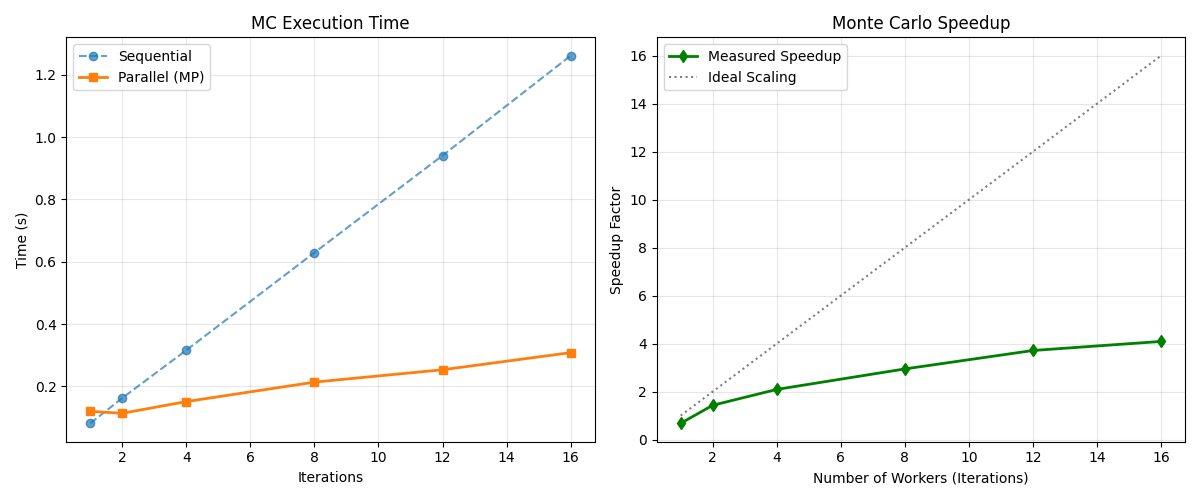
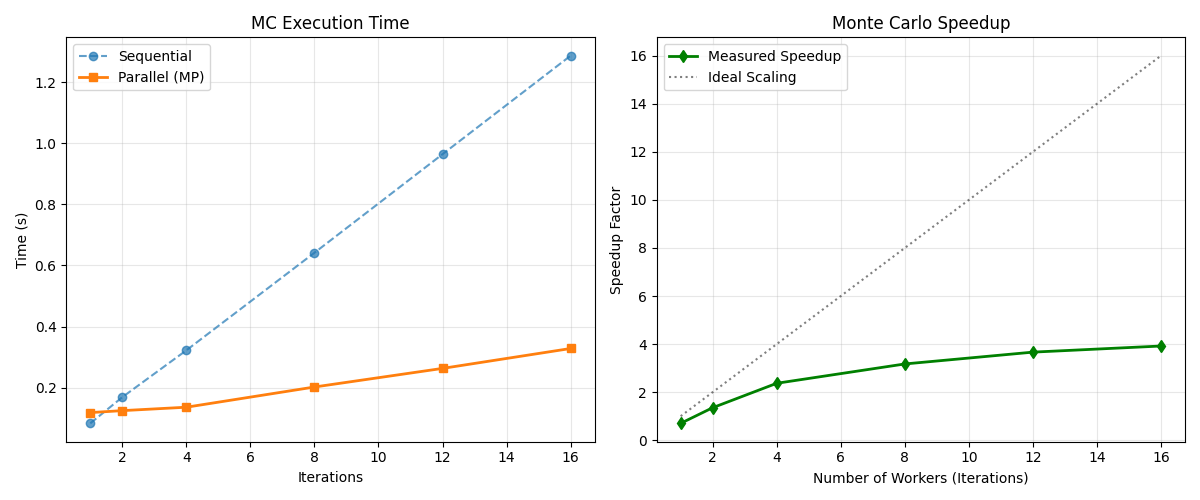
created and integrated abstract interfaces

diff --git a/src/satlinksim/domain/handoff/manager.py b/src/satlinksim/domain/handoff/manager.py
@@ -1,59 +1,100 @@
 import numpy as np
+from abc import ABC, abstractmethod
+from typing import Optional
 from satlinksim.domain.models import HandoffEvent
+
+class HandoffPolicy(ABC):
+    @abstractmethod
+    def select_best(self, current_sat_idx: Optional[int], dwell_timer: int, min_dwell_steps: int, hysteresis: float, snr_metrics: np.ndarray, el_metrics: np.ndarray) -> tuple[Optional[int], bool, str, float]:
+        """
+        Evaluate candidates and return the selected satellite.
+        Returns:
+            new_sat_idx: int or None
+            should_switch: bool
+            reason: str
+            metric_delta: float
+        """
+        pass
+
+class HighestElevationPolicy(HandoffPolicy):
+    def select_best(self, current_sat_idx, dwell_timer, min_dwell_steps, hysteresis, snr_metrics, el_metrics):
+        if len(el_metrics) == 0:
+            return None, False, "", 0.0
+            
+        best_idx = int(np.argmax(el_metrics))
+        best_metric = el_metrics[best_idx]
+        
+        if current_sat_idx is None:
+            return best_idx, True, "highest_elevation", 0.0
+            
+        curr_metric = el_metrics[current_sat_idx]
+        should_switch = False
+        
+        if best_metric > (curr_metric + hysteresis):
+            if dwell_timer >= min_dwell_steps:
+                should_switch = True
+            elif curr_metric < 0: # emergency switch
+                should_switch = True
+                
+        return best_idx if should_switch else current_sat_idx, should_switch, "highest_elevation", float(best_metric - curr_metric)
+
+class HighestSNRPolicy(HandoffPolicy):
+    def select_best(self, current_sat_idx, dwell_timer, min_dwell_steps, hysteresis, snr_metrics, el_metrics):
+        if len(snr_metrics) == 0:
+            return None, False, "", 0.0
+            
+        best_idx = int(np.argmax(snr_metrics))
+        best_metric = snr_metrics[best_idx]
+        
+        if current_sat_idx is None:
+            return best_idx, True, "highest_snr", 0.0
+            
+        curr_metric = snr_metrics[current_sat_idx]
+        should_switch = False
+        
+        if best_metric > (curr_metric + hysteresis):
+            if dwell_timer >= min_dwell_steps:
+                should_switch = True
+            elif el_metrics[current_sat_idx] < 0: # emergency switch based on elevation
+                should_switch = True
+                
+        return best_idx if should_switch else current_sat_idx, should_switch, "highest_snr", float(best_metric - curr_metric)
 
 class HandoffManager:
     """
-    Manages satellite selection and switching logic (handoffs).
-    Prevents 'ping-ponging' using hysteresis and minimum dwell time.
+    Manages satellite selection and switching state using a provided HandoffPolicy.
     """
-    def __init__(self, policy, hysteresis, min_dwell_steps):
-        self.policy = policy  # "highest_elevation" or "highest_snr"
-        self.hysteresis = hysteresis  # degrees if elevation, dB if SNR
+    def __init__(self, policy: HandoffPolicy, hysteresis: float, min_dwell_steps: int):
+        self.policy = policy
+        self.hysteresis = hysteresis
         self.min_dwell_steps = min_dwell_steps
         
         self.current_sat_idx = None
         self.dwell_timer = 0
         self.events = []
 
-    def select(self, step_idx: int, candidates_names: list, candidates_metrics: np.ndarray) -> int:
-        """
-        Select the best satellite index based on policy and constraints.
-        candidates_metrics: array of values (elevation or SNR) for each candidate.
-        """
-        if len(candidates_metrics) == 0:
+    def select(self, step_idx: int, candidates_names: list, snr_metrics: np.ndarray, el_metrics: np.ndarray) -> int:
+        if len(snr_metrics) == 0:
             return None
-        
-        best_idx = np.argmax(candidates_metrics)
-        best_metric = candidates_metrics[best_idx]
 
-        # Initial selection
+        new_idx, should_switch, reason, delta = self.policy.select_best(
+            self.current_sat_idx, self.dwell_timer, self.min_dwell_steps, self.hysteresis, snr_metrics, el_metrics
+        )
+        
         if self.current_sat_idx is None:
-            self.current_sat_idx = best_idx
+            self.current_sat_idx = new_idx
             self.dwell_timer = 0
             return self.current_sat_idx
-
-        curr_metric = candidates_metrics[self.current_sat_idx]
-        
-        # Check if we SHOULD switch
-        # 1. Is there a candidate significantly better than the current one? (Hysteresis)
-        # 2. Have we stayed on the current satellite long enough? (Dwell time)
-        
-        should_switch = False
-        if best_metric > (curr_metric + self.hysteresis):
-            if self.dwell_timer >= self.min_dwell_steps:
-                should_switch = True
-            elif curr_metric < 0: # Emergency switch if link is lost (e.g. elevation < 0)
-                should_switch = True
-
+            
         if should_switch:
             self.events.append(HandoffEvent(
                 time_step=step_idx,
                 old_sat=candidates_names[self.current_sat_idx],
-                new_sat=candidates_names[best_idx],
-                reason=self.policy,
-                metric_delta=float(best_metric - curr_metric)
+                new_sat=candidates_names[new_idx],
+                reason=reason,
+                metric_delta=delta
             ))
-            self.current_sat_idx = best_idx
+            self.current_sat_idx = new_idx
             self.dwell_timer = 0
         else:
             self.dwell_timer += 1

diff --git a/src/satlinksim/application/simulation_engine.py b/src/satlinksim/application/simulation_engine.py
@@ -3,9 +3,10 @@ import numpy as np
 import asyncio
 from concurrent.futures import ProcessPoolExecutor
 from datetime import datetime, timedelta, timezone
-from typing import List, Dict, Optional
+from typing import List, Dict, Optional, Union, Callable
 
 from satlinksim.domain.models import StationResult, Constellation
+from satlinksim.domain.interfaces import Propagator, RainModel
 from satlinksim.domain.rain.engine import CorrelatedRainProcess
 from satlinksim.domain.geometry.physics import geo_elevation_deg, geo_slant_range_km
 from satlinksim.domain.link.itu_models import (
@@ -15,8 +16,8 @@ from satlinksim.domain.link.itu_models import (
 from satlinksim.domain.link.budget import (
     fspl_db, noise_power_dbw, doppler_shift_hz, packet_loss_from_snr
 )
-from satlinksim.domain.handoff.manager import HandoffManager
-from satlinksim.infrastructure.tle.service import Propagator
+from satlinksim.domain.handoff.manager import HandoffManager, HandoffPolicy, HighestElevationPolicy, HighestSNRPolicy
+from satlinksim.infrastructure.tle.service import SGP4Propagator
 from satlinksim.config import config
 from satlinksim.ground_stations import GROUND_STATIONS
 
@@ -30,7 +31,7 @@ SNR_THRESHOLD_DB        = config.simulation.link.snr_threshold_db
 
 class SimulationEngine:
     def __init__(self, propagator: Optional[Propagator] = None):
-        self.propagator = propagator or Propagator()
+        self.propagator = propagator or SGP4Propagator()
 
     def simulate_all_batched(self, ground_stations: list[dict],
                              n_steps:         int   = DEFAULT_N_STEPS,
@@ -44,9 +45,10 @@ class SimulationEngine:
                              polarization:    str   = DEFAULT_POLARIZATION,
                              rain_rate_scale: float = 1.0,
                              constellation:   Optional[Constellation] = None,
-                             handoff_policy:  str = "highest_elevation",
+                             handoff_policy:  Union[str, HandoffPolicy] = "highest_elevation",
                              hysteresis:      float = config.simulation.handoff.hysteresis_db,
                              min_dwell_steps: int = config.simulation.handoff.dwell_steps,
+                             rain_model_factory: Optional[Callable[[dict], RainModel]] = None,
                              ) -> list[StationResult]:
         if seed is not None:
             np.random.seed(seed)
@@ -94,8 +96,11 @@ class SimulationEngine:
                 n_cands = len(candidates_geo)
                 cand_names = [g.sat_name for g in candidates_geo]
 
-                rain_proc = CorrelatedRainProcess([gs], dt_s=dt_s, force_rain=force_rain, 
-                                                  rain_rate_scale=rain_rate_scale)
+                if rain_model_factory:
+                    rain_proc = rain_model_factory(gs)
+                else:
+                    rain_proc = CorrelatedRainProcess([gs], dt_s=dt_s, force_rain=force_rain, 
+                                                      rain_rate_scale=rain_rate_scale)
                 rain_rate_s = rain_proc.generate_batch(n_steps)[:, 0]
 
                 cand_snr_matrix = np.zeros((n_cands, n_steps))
@@ -121,11 +126,18 @@ class SimulationEngine:
                     cand_rain_db_matrix[c_idx] = ra
                     cand_scint_db_matrix[c_idx] = scint_db
 
-                hm = HandoffManager(policy=handoff_policy, hysteresis=hysteresis, min_dwell_steps=min_dwell_steps)
+                if isinstance(handoff_policy, str):
+                    if handoff_policy == "highest_snr":
+                        policy_obj = HighestSNRPolicy()
+                    else:
+                        policy_obj = HighestElevationPolicy()
+                else:
+                    policy_obj = handoff_policy
+                
+                hm = HandoffManager(policy=policy_obj, hysteresis=hysteresis, min_dwell_steps=min_dwell_steps)
                 selected_indices = []
                 for t in range(n_steps):
-                    metrics = cand_snr_matrix[:, t] if handoff_policy == "highest_snr" else cand_el_matrix[:, t]
-                    idx = hm.select(t, cand_names, metrics)
+                    idx = hm.select(t, cand_names, cand_snr_matrix[:, t], cand_el_matrix[:, t])
                     selected_indices.append(idx)
                 
                 t_idx = np.arange(n_steps)

diff --git a/src/satlinksim/domain/interfaces.py b/src/satlinksim/domain/interfaces.py
@@ -1,0 +1,28 @@
+from abc import ABC, abstractmethod
+from typing import List, Optional, Dict
+from datetime import datetime
+import numpy as np
+
+from satlinksim.domain.models import SatelliteGeometry
+
+class Propagator(ABC):
+    @abstractmethod
+    def get_geometry_batch(self, identifier, dts: List[datetime], gs_lat: float, gs_lon: float, gs_alt: float) -> Optional[SatelliteGeometry]:
+        pass
+
+    @abstractmethod
+    async def get_geometry_batch_async(self, identifier, dts: List[datetime], gs_lat: float, gs_lon: float, gs_alt: float) -> Optional[SatelliteGeometry]:
+        pass
+
+    @abstractmethod
+    def get_geometry(self, identifier, dt: datetime, gs_lat: float, gs_lon: float, gs_alt: float) -> Optional[SatelliteGeometry]:
+        pass
+
+class RainModel(ABC):
+    @abstractmethod
+    def generate_batch(self, n_steps: int) -> np.ndarray:
+        pass
+
+    @abstractmethod
+    def step(self) -> float:
+        pass

diff --git a/src/satlinksim/domain/rain/engine.py b/src/satlinksim/domain/rain/engine.py
@@ -1,6 +1,7 @@
 import numpy as np
 
 from satlinksim.config import config
+from satlinksim.domain.interfaces import RainModel
 
 TAU_COHERENCE_S = config.rain.tau_c
 
@@ -37,7 +38,7 @@ def _simulate_rain_kernel(n_steps, n_stations, rho, mu, sigma, p_onset, p_clear,
                 
     return rates, curr_ln_R, curr_raining
 
-class CorrelatedRainProcess:
+class CorrelatedRainProcess(RainModel):
     def __init__(self, gs, dt_s, tau_c=TAU_COHERENCE_S,
                  force_rain=False, rain_rate_scale=1.0):
         if isinstance(gs, dict):

diff --git a/src/satlinksim/infrastructure/tle/service.py b/src/satlinksim/infrastructure/tle/service.py
@@ -8,6 +8,7 @@ from sgp4.api import Satrec, jday
 from typing import List, Optional, Union
 
 from satlinksim.domain.models import Satellite, SatelliteGeometry, Constellation
+from satlinksim.domain.interfaces import Propagator
 from satlinksim.infrastructure.persistence.database import init_db
 
 # ── WGS84 Constants ──────────────────────────────────────────────────────────
@@ -69,7 +70,7 @@ def rotate_teme_to_ecef(pos_teme, vel_teme, gmst):
     
     return pos_ecef, vel_ecef
 
-class Propagator:
+class SGP4Propagator(Propagator):
     def __init__(self, db_path=None):
         if db_path is None:
             db_path = os.path.join(os.path.dirname(os.path.dirname(os.path.dirname(__file__))), "satellites.db")

diff --git a/src/satlinksim/propogate.py b/src/satlinksim/propogate.py
@@ -3,6 +3,6 @@ Compatibility layer for propagation logic, now moved to Infrastructure layer.
 """
 from satlinksim.domain.models import Satellite, Constellation, SatelliteGeometry
 from satlinksim.infrastructure.tle.service import (
-    Propagator, geodetic_to_ecef, ecef_to_enu_matrix, get_gmst, rotate_teme_to_ecef,
+    SGP4Propagator as Propagator, geodetic_to_ecef, ecef_to_enu_matrix, get_gmst, rotate_teme_to_ecef,
     WGS84_A, WGS84_F, WGS84_E2, EARTH_OMEGA
 )